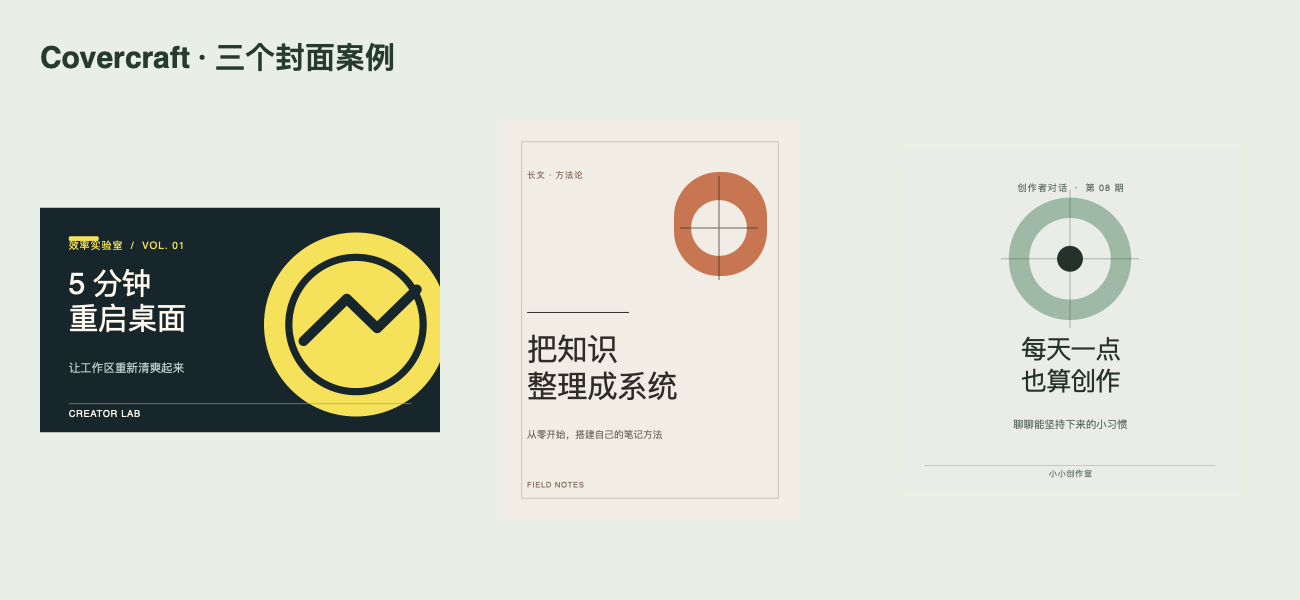
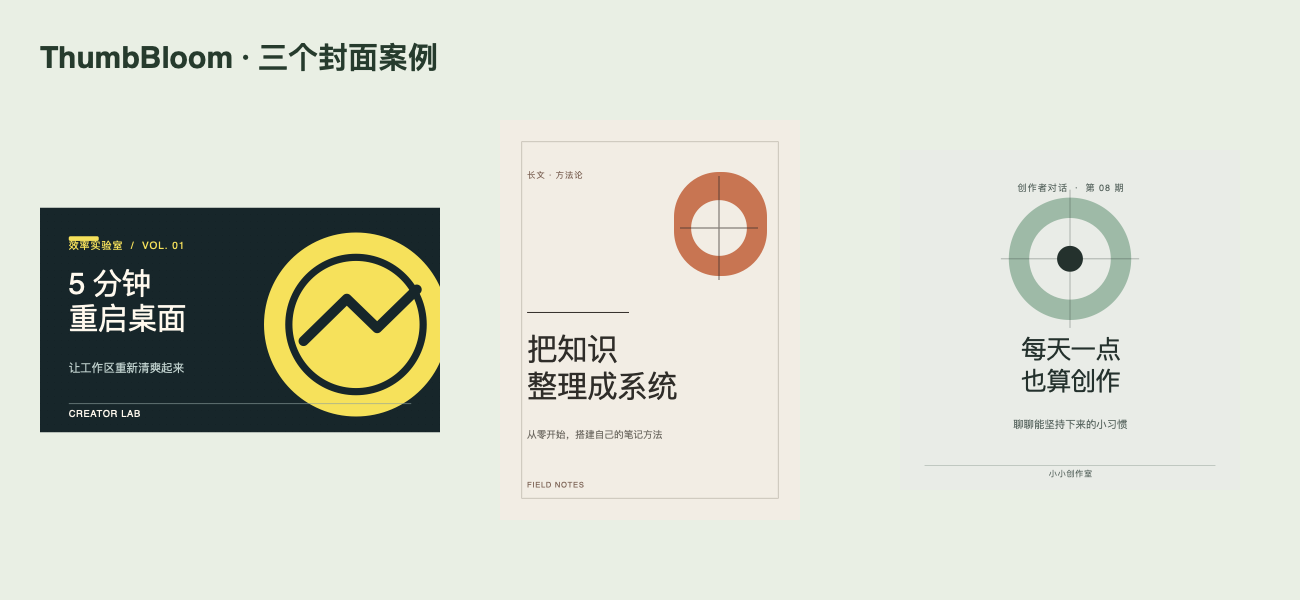
Rename project and skill to ThumbBloom

Changed region(s): [[0.0308, 0.06, 0.3385, 0.12]]

diff --git a/web/index.html b/web/index.html
@@ -3,14 +3,14 @@
 <head>
   <meta charset="utf-8">
   <meta name="viewport" content="width=device-width,initial-scale=1">
-  <meta name="description" content="封面工坊：用可编辑模板制作视频、文章和播客封面，导出 SVG 或 PNG。">
-  <title>Covercraft · 封面工坊</title>
+  <meta name="description" content="封面灵感：用可编辑模板制作视频、文章和播客封面，导出 SVG 或 PNG。">
+  <title>ThumbBloom · 封面灵感</title>
   <link rel="stylesheet" href="./style.css">
 </head>
 <body>
   <header class="topbar">
-    <a class="wordmark" href="#top" aria-label="封面工坊首页"><span class="mark">C<span>✦</span></span><span>Covercraft <small>封面工坊</small></span></a>
-    <nav aria-label="主导航"><a href="#studio">设计台</a><a href="#cases">案例</a><a href="https://github.com/H8AB/covercraft#readme" target="_blank" rel="noopener noreferrer">使用说明</a><a class="nav-github" href="https://github.com/H8AB/covercraft" target="_blank" rel="noopener noreferrer">获取源码 ↗</a></nav>
+    <a class="wordmark" href="#top" aria-label="封面灵感首页"><span class="mark">T<span>✦</span></span><span>ThumbBloom <small>封面灵感</small></span></a>
+    <nav aria-label="主导航"><a href="#studio">设计台</a><a href="#cases">案例</a><a href="https://github.com/H8AB/thumbbloom#readme" target="_blank" rel="noopener noreferrer">使用说明</a><a class="nav-github" href="https://github.com/H8AB/thumbbloom" target="_blank" rel="noopener noreferrer">获取源码 ↗</a></nav>
   </header>
   <main id="top">
     <section class="hero">
@@ -35,9 +35,9 @@
       </div>
     </section>
     <section class="cases-section" id="cases"><div class="section-heading"><div><span class="eyebrow">02 / EXAMPLES</span><h2>从灵感到封面</h2></div><p>三个虚构创作者案例。点击任意案例，把它带入设计台继续编辑。</p></div><div id="caseGrid" class="case-grid"></div></section>
-    <section class="about-section"><div><span class="eyebrow">OPEN BY DESIGN</span><h2>一个技能，多个入口。</h2></div><p>技能文件可装入 Codex、WorkBuddy 和 Claude；浏览器演示则可在静态托管平台部署。所有示例封面由原生 SVG 绘制，可自行修改。</p><a href="https://github.com/H8AB/covercraft#readme" target="_blank" rel="noopener noreferrer">查看安装说明 ↗</a></section>
+    <section class="about-section"><div><span class="eyebrow">OPEN BY DESIGN</span><h2>一个技能，多个入口。</h2></div><p>技能文件可装入 Codex、WorkBuddy 和 Claude；浏览器演示则可在静态托管平台部署。所有示例封面由原生 SVG 绘制，可自行修改。</p><a href="https://github.com/H8AB/thumbbloom#readme" target="_blank" rel="noopener noreferrer">查看安装说明 ↗</a></section>
   </main>
-  <footer><span>Covercraft · 封面工坊</span><span>为创作者而做 · MIT License</span></footer>
+  <footer><span>ThumbBloom · 封面灵感</span><span>为创作者而做 · MIT License</span></footer>
   <script type="module" src="./app.js"></script>
 </body>
 </html>

diff --git a/web/app.js b/web/app.js
@@ -39,7 +39,7 @@ function download(blob, filename) {
 }
 
 document.querySelector('#downloadSvg').addEventListener('click', () => {
-  download(new Blob([currentSvg], { type: 'image/svg+xml;charset=utf-8' }), `covercraft-${values().kind}.svg`);
+  download(new Blob([currentSvg], { type: 'image/svg+xml;charset=utf-8' }), `thumbbloom-${values().kind}.svg`);
   status.textContent = 'SVG 已下载，可在矢量编辑器中继续修改。';
 });
 
@@ -52,7 +52,7 @@ document.querySelector('#downloadPng').addEventListener('click', () => {
     canvas.getContext('2d').drawImage(img, 0, 0);
     URL.revokeObjectURL(url);
     canvas.toBlob(blob => {
-      if (blob) { download(blob, `covercraft-${data.kind}.png`); status.textContent = 'PNG 已下载。'; }
+      if (blob) { download(blob, `thumbbloom-${data.kind}.png`); status.textContent = 'PNG 已下载。'; }
       else status.textContent = 'PNG 导出失败，请先下载 SVG。';
     }, 'image/png');
   };

diff --git a/index.html b/index.html
@@ -1,1 +1,1 @@
-<!doctype html><html lang="zh-CN"><head><meta charset="utf-8"><meta name="viewport" content="width=device-width,initial-scale=1"><meta http-equiv="refresh" content="0;url=web/"><title>Covercraft · 封面工坊</title></head><body><a href="web/">打开封面工坊</a></body></html>
+<!doctype html><html lang="zh-CN"><head><meta charset="utf-8"><meta name="viewport" content="width=device-width,initial-scale=1"><meta http-equiv="refresh" content="0;url=web/"><title>ThumbBloom · 封面灵感</title></head><body><a href="web/">打开封面灵感</a></body></html>

diff --git a/README.md b/README.md
@@ -1,8 +1,8 @@
-# Covercraft · 封面工坊
+# ThumbBloom · 封面灵感
 
 一个开源的社媒封面设计技能：让智能体从内容中提炼封面信息，并交付可编辑成品。附带可直接在浏览器运行的演示设计台，支持视频、文章、播客封面，导出 SVG 和 PNG。
 
-**[在线体验封面设计台](https://h8ab.github.io/covercraft/)**
+**[在线体验封面设计台](https://h8ab.github.io/thumbbloom/)**
 
 ![三个案例封面](examples/overview.svg)
 
@@ -20,19 +20,19 @@ python3 -m http.server 8000
 
 ## 在智能体中安装
 
-技能目录是 [`skills/covercraft/`](skills/covercraft/SKILL.md)。复制整个目录，保留 `SKILL.md` 和 `references/`。
+技能目录是 [`skills/thumbbloom/`](skills/thumbbloom/SKILL.md)。复制整个目录，保留 `SKILL.md` 和 `references/`。
 
-- **Codex**：复制到项目的 `.agents/skills/covercraft/`，或用户目录 `~/.agents/skills/covercraft/`。新会话中可说“用 covercraft 为这篇文章设计封面”。
-- **Claude Code**：复制到项目的 `.claude/skills/covercraft/`，或 `~/.claude/skills/covercraft/`。
-- **Claude 网页端**：把 `covercraft/` 文件夹打成 ZIP，在支持自定义技能的账号中从设置里的 Skills 功能上传。具体入口和可用性以当前账号界面为准。
-- **WorkBuddy**：运行 `npm run workbuddy` 生成 `platforms/workbuddy/covercraft/`，再在技能市场选择“添加技能 / 上传技能”，上传该文件夹或打包的 ZIP。生成版包含 WorkBuddy 所需的展示字段。
-- **其他支持 Agent Skills 的应用**：导入 `skills/covercraft/` 目录；若只支持贴入提示词，可使用下方的示例请求并把 `SKILL.md` 作为应用指令。
+- **Codex**：复制到项目的 `.agents/skills/thumbbloom/`，或用户目录 `~/.agents/skills/thumbbloom/`。新会话中可说“用 thumbbloom 为这篇文章设计封面”。
+- **Claude Code**：复制到项目的 `.claude/skills/thumbbloom/`，或 `~/.claude/skills/thumbbloom/`。
+- **Claude 网页端**：把 `thumbbloom/` 文件夹打成 ZIP，在支持自定义技能的账号中从设置里的 Skills 功能上传。具体入口和可用性以当前账号界面为准。
+- **WorkBuddy**：运行 `npm run workbuddy` 生成 `platforms/workbuddy/thumbbloom/`，再在技能市场选择“添加技能 / 上传技能”，上传该文件夹或打包的 ZIP。生成版包含 WorkBuddy 所需的展示字段。
+- **其他支持 Agent Skills 的应用**：导入 `skills/thumbbloom/` 目录；若只支持贴入提示词，可使用下方的示例请求并把 `SKILL.md` 作为应用指令。
 
 安装路径与上传方式参考 [OpenAI 技能说明](https://developers.openai.com/api/reference/cli)、[Claude Agent Skills 文档](https://platform.claude.com/docs/en/agents-and-tools/agent-skills/overview) 和 [WorkBuddy 技能文档](https://open.workbuddy.cn/docs/skill)。
 
 ## 用法示例
 
-> 用 covercraft 为一条“5 分钟重启桌面”的视频设计封面。受众是居家办公者，做一个醒目的横版版本。先给两种不同方向，再交付可编辑 SVG 和 PNG，并检查缩略图可读性。
+> 用 thumbbloom 为一条“5 分钟重启桌面”的视频设计封面。受众是居家办公者，做一个醒目的横版版本。先给两种不同方向，再交付可编辑 SVG 和 PNG，并检查缩略图可读性。
 
 > 给一篇关于个人知识管理的文章做封面。调性安静、有编辑感，标题是“把知识整理成系统”。请给 3:4 和 1:1 两个版本，保持同一视觉语言。
 
@@ -41,7 +41,7 @@ python3 -m http.server 8000
 ## 目录
 
 ```text
-skills/covercraft/   跨平台技能入口和设计参考
+skills/thumbbloom/   跨平台技能入口和设计参考
 web/                 纯静态交互演示
 examples/            从同一渲染器生成的案例 SVG
 scripts/             案例生成与检查脚本
@@ -59,7 +59,7 @@ npm run check
 npm run workbuddy
 ```
 
-`npm run check` 只用 Node 标准库。开发者若安装了 Codex 的 skill-creator，可额外用其 `quick_validate.py` 验证 `skills/covercraft/`。
+`npm run check` 只用 Node 标准库。开发者若安装了 Codex 的 skill-creator，可额外用其 `quick_validate.py` 验证 `skills/thumbbloom/`。
 
 ## 当前范围
 

diff --git a/platforms/workbuddy/thumbbloom/SKILL.md b/platforms/workbuddy/thumbbloom/SKILL.md
@@ -1,18 +1,18 @@
 ---
-name: covercraft
-display_name: 封面工坊
-display_name_en: Covercraft
+name: thumbbloom
+display_name: 封面灵感
+display_name_en: ThumbBloom
 description: 为视频、文章、播客设计可编辑的社媒封面与缩略图；需要封面创意、排版或成品时使用。
 description_zh: 提炼内容亮点，制作可编辑封面，并检查缩略图可读性。
 description_en: Design editable covers and thumbnails for creator content.
 version: 0.1.0
-author: Covercraft contributors
+author: ThumbBloom contributors
 examples_zh:
   - "为我的短视频设计醒目的封面"
   - "给这篇文章做一个有编辑感的封面"
 ---
 
-# Covercraft · 封面工坊
+# ThumbBloom · 封面灵感
 
 Turn a creator's content into a cover that is accurate, readable at thumbnail size, and easy to revise. Respond in the user's language. Use the tools available in the host agent; the skill itself needs no API key.
 

diff --git a/skills/thumbbloom/SKILL.md b/skills/thumbbloom/SKILL.md
@@ -1,11 +1,11 @@
 ---
-name: covercraft
+name: thumbbloom
 description: Design and produce legible, platform-aware covers and thumbnails for social videos, articles, podcasts, and series; use when a creator needs a cover concept, editable artwork, or variants.
 metadata:
   short-description: Design editable social covers
 ---
 
-# Covercraft · 封面工坊
+# ThumbBloom · 封面灵感
 
 Turn a creator's content into a cover that is accurate, readable at thumbnail size, and easy to revise. Respond in the user's language. Use the tools available in the host agent; the skill itself needs no API key.
 
